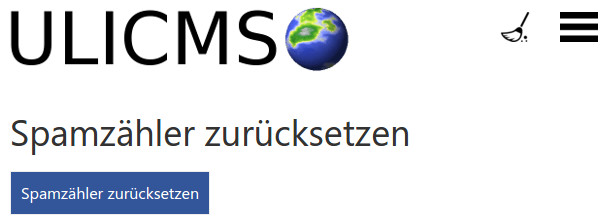
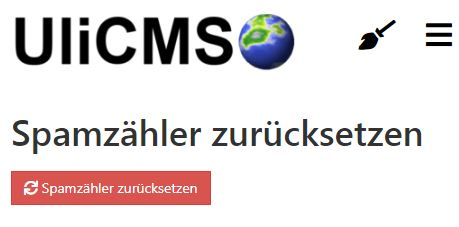
reset_spam_counter

diff --git a/src/content/modules/reset_spam_counter/templates/settings.php b/src/content/modules/reset_spam_counter/templates/settings.php
@@ -1,3 +1,4 @@
 <?php echo ModuleHelper::buildMethodCallForm("ResetSpamCounter", "doReset");?>
-<input type="submit" value="<?php translate("reset_spam_counter");?>">
+<button type="submit" name="submit" class="btn btn-danger"><i class="fa fa-sync" aria-hidden="true"></i> 
+<?php translate("reset_spam_counter");?></button>
 </form>
